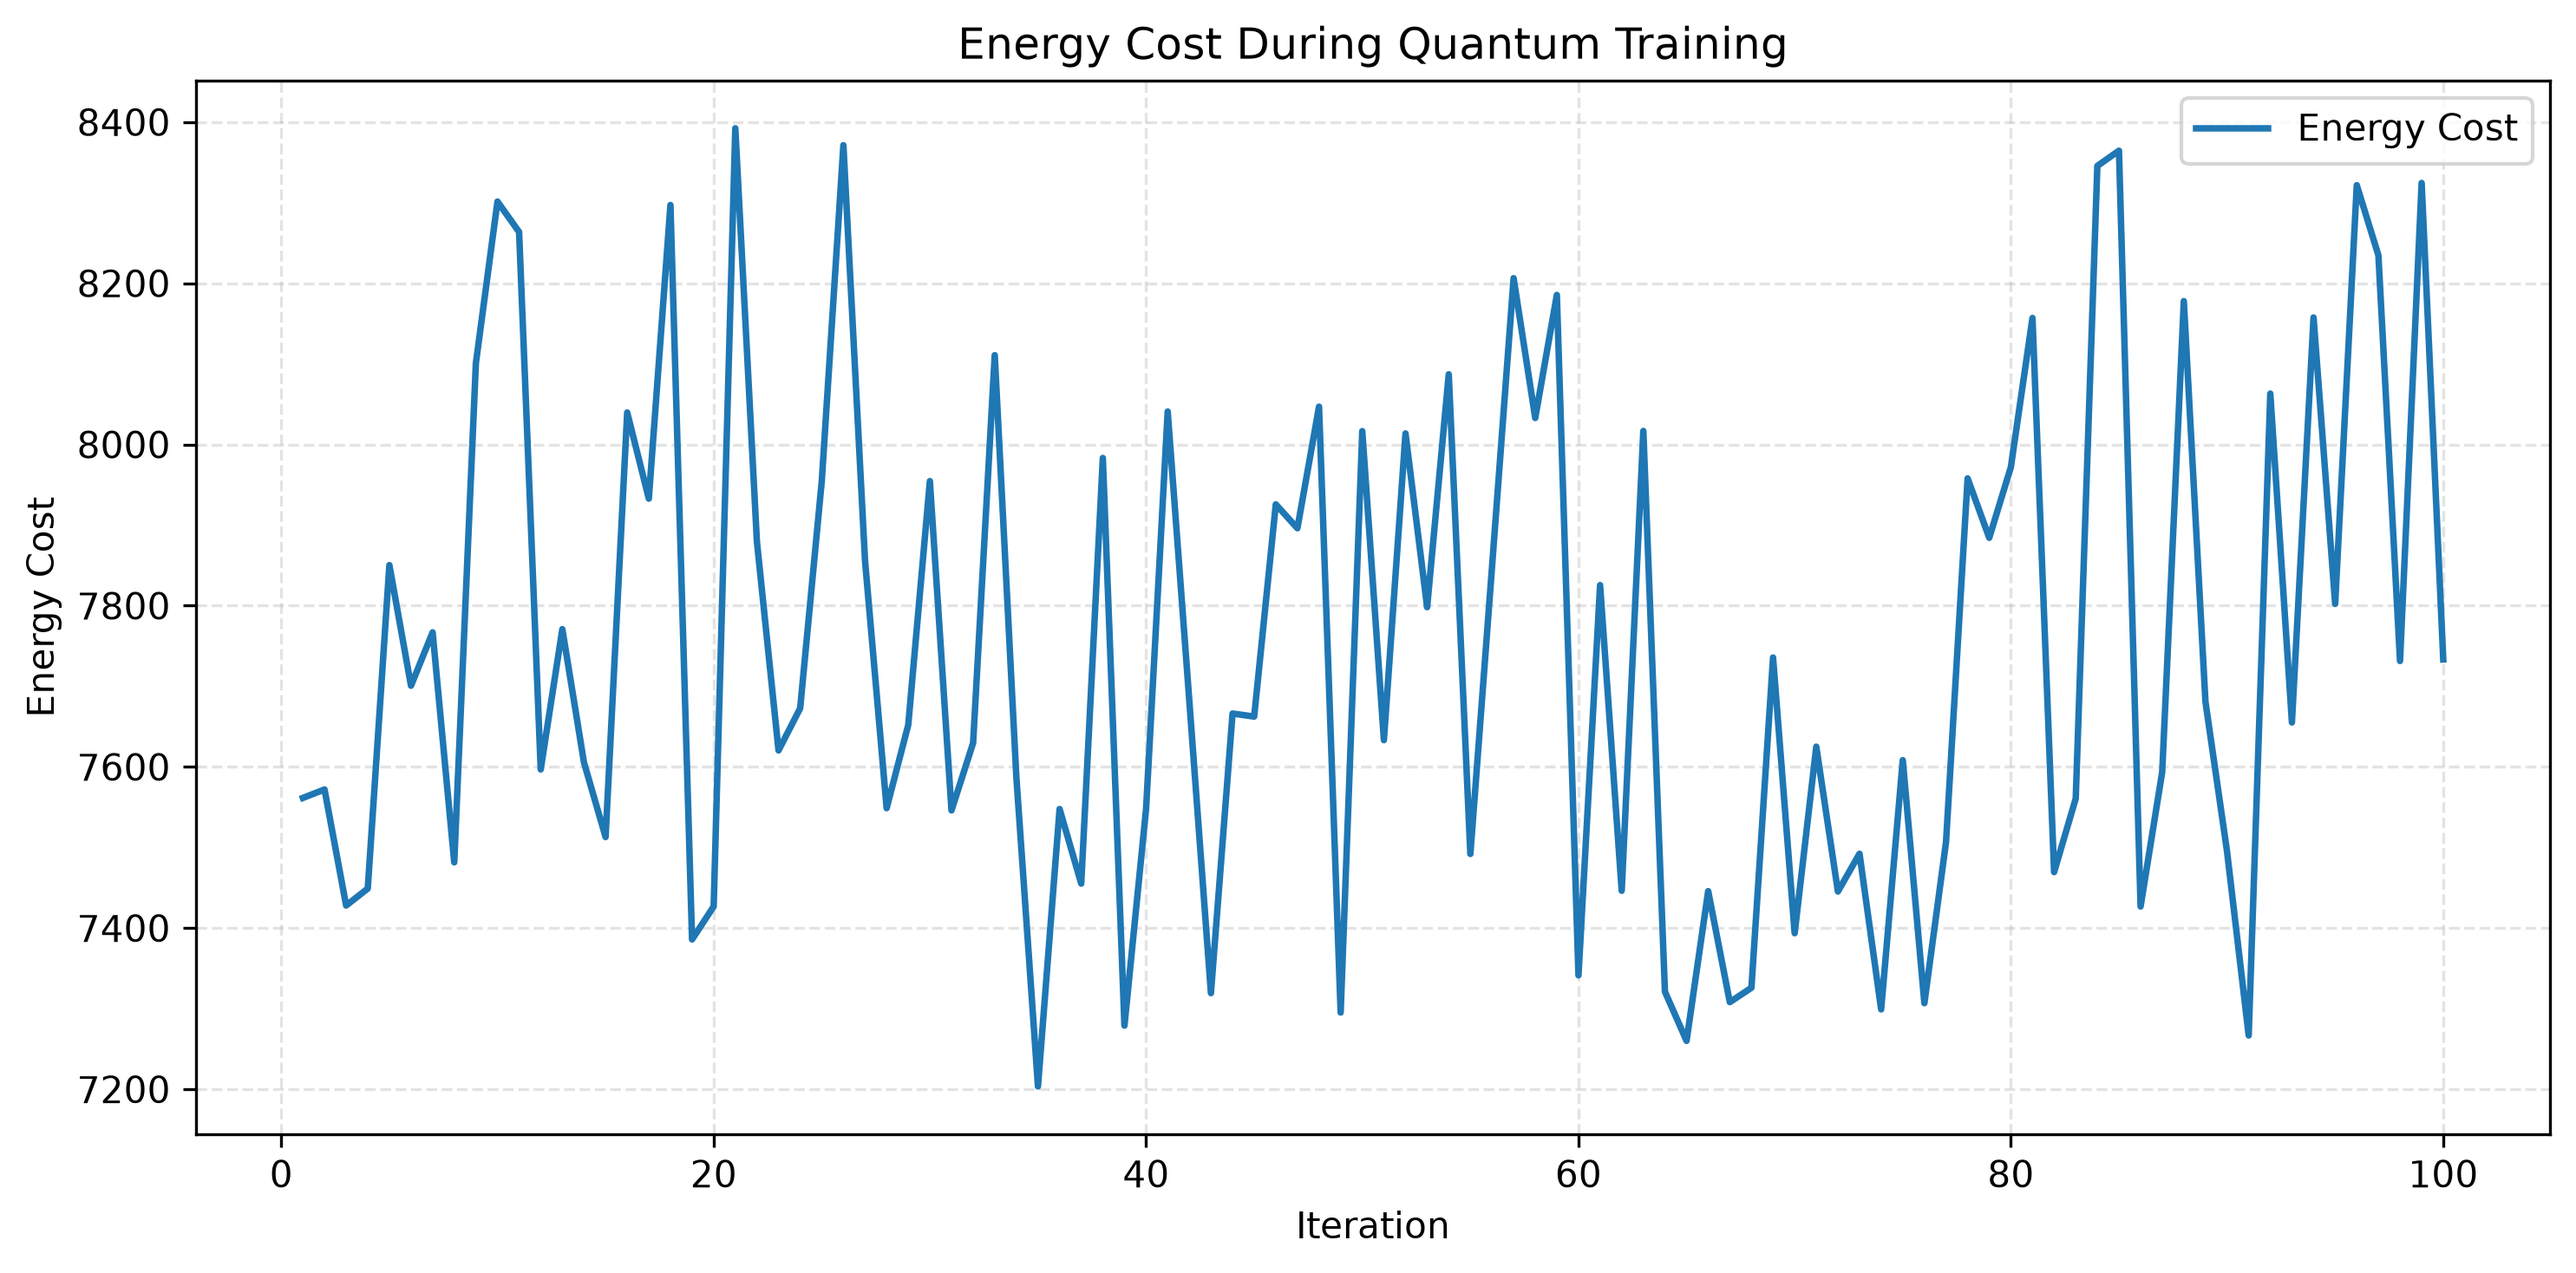
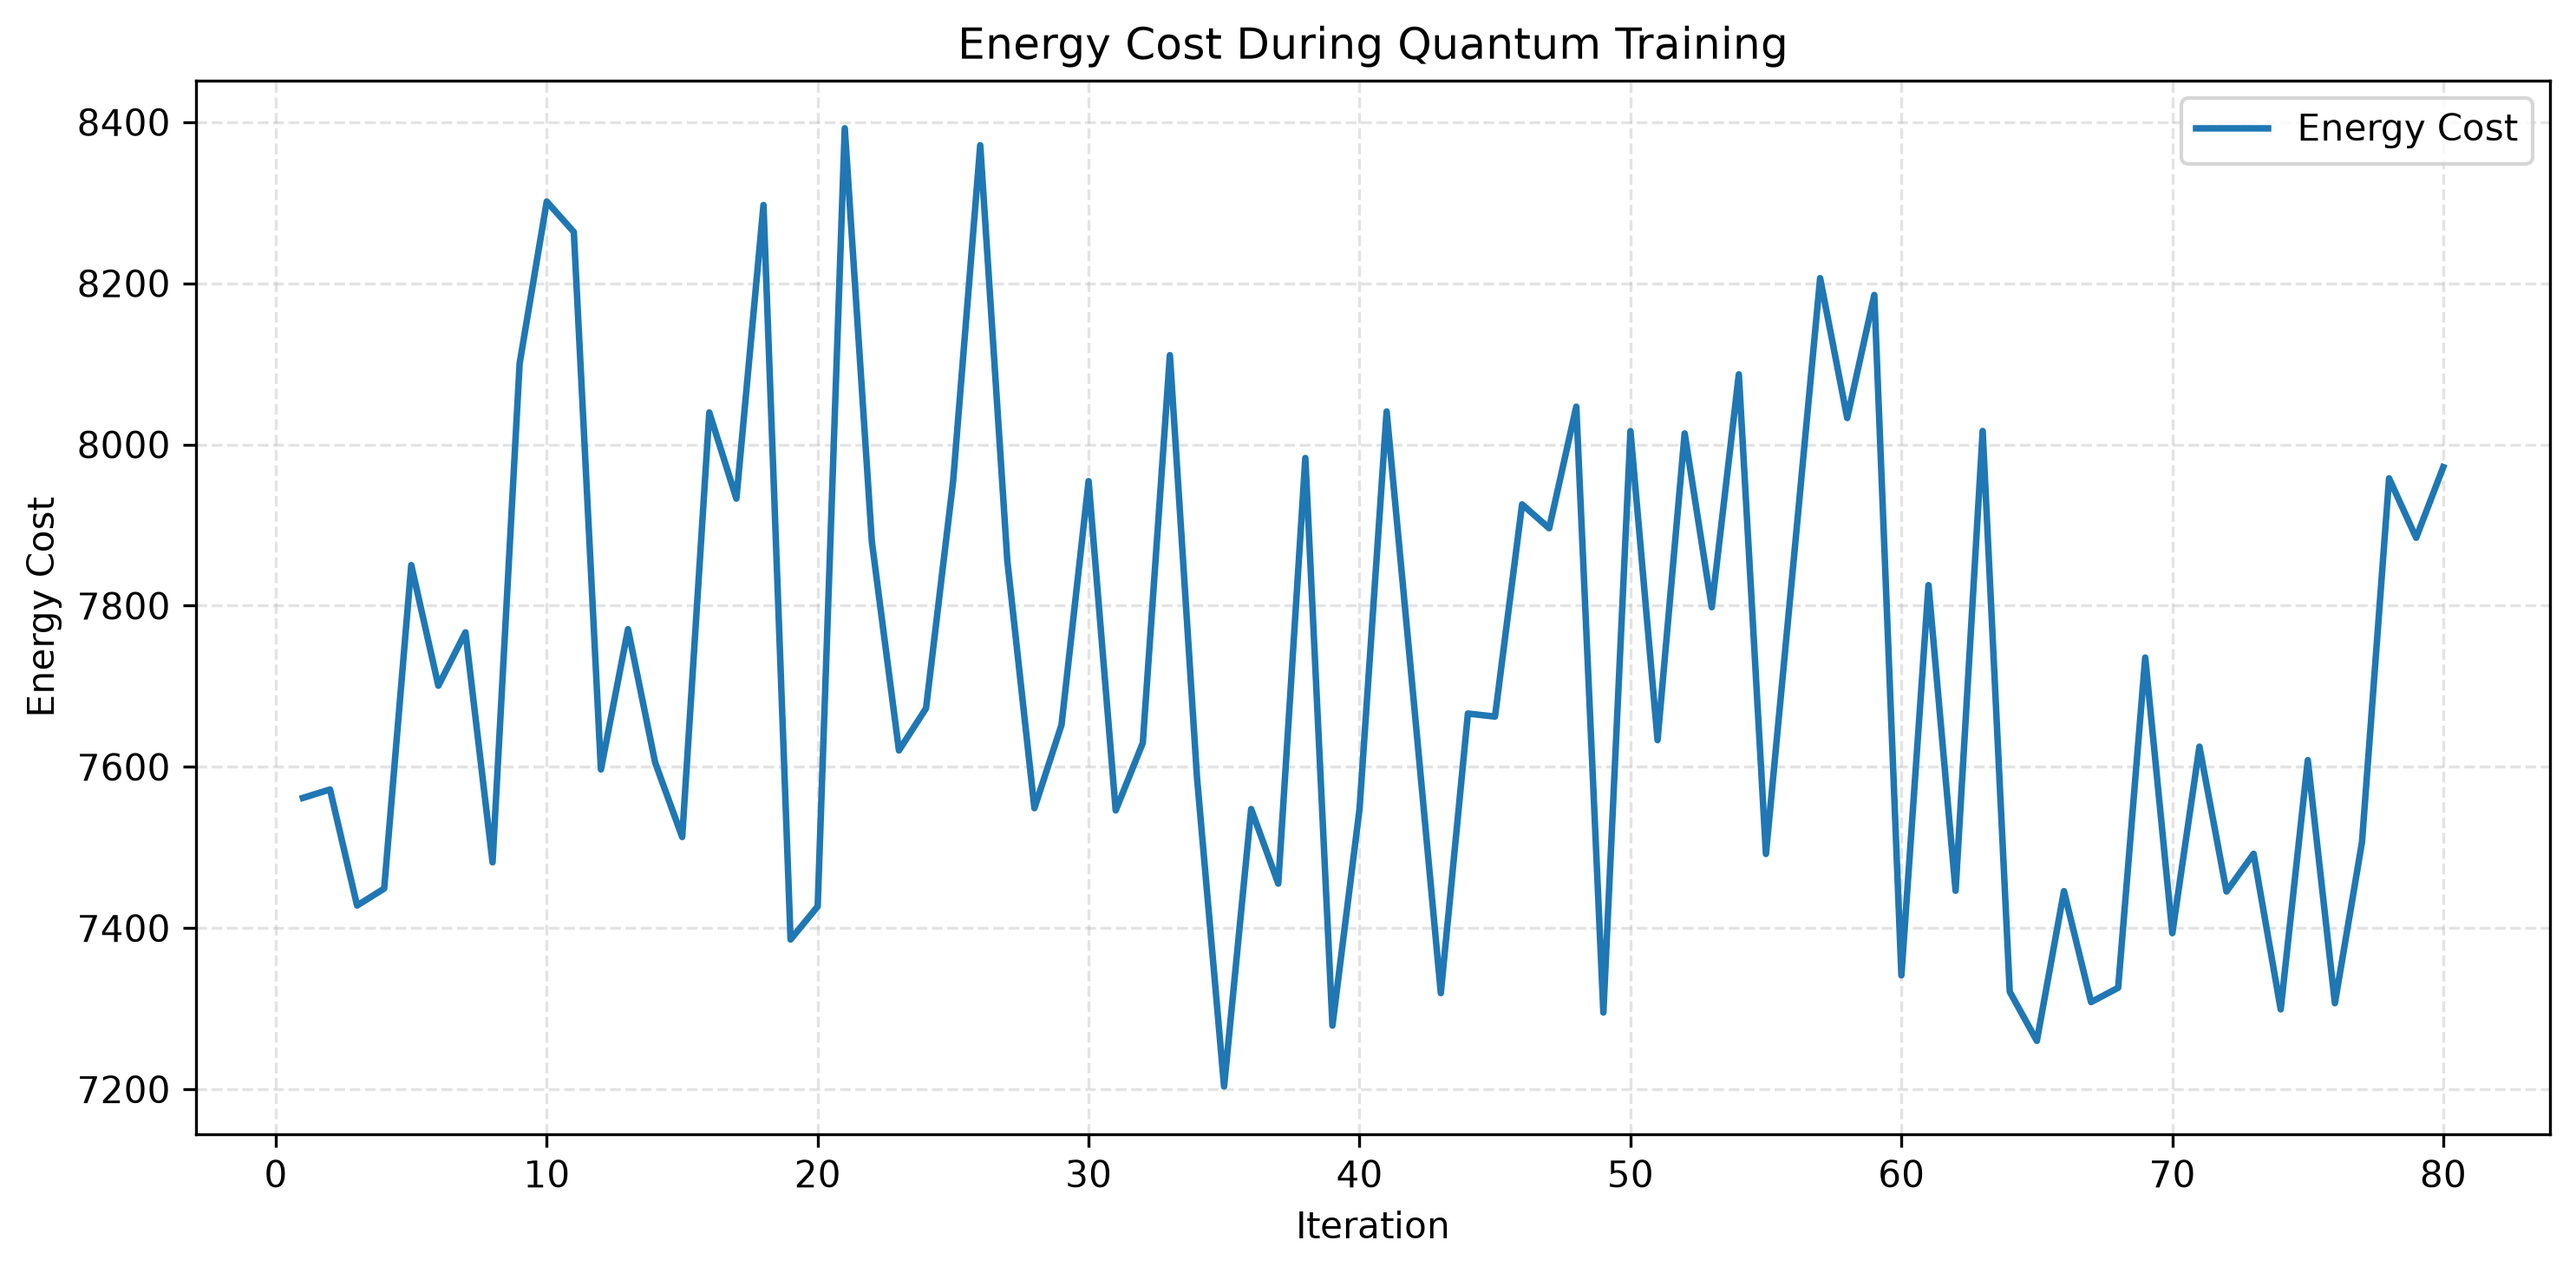
Add reproducible experiment configuration

Changed region(s): [[0.1239, 0.1226, 0.9603, 0.8583], [0.9293, 0.889, 0.9603, 0.9503], [0.6195, 0.9196, 0.6505, 0.9503]]

diff --git a/training/train_quantum_policy.py b/training/train_quantum_policy.py
@@ -10,6 +10,17 @@ PROJECT_ROOT = Path(__file__).resolve().parents[1]
 if str(PROJECT_ROOT) not in sys.path:
     sys.path.insert(0, str(PROJECT_ROOT))
 
+from config.experiment_config import (
+    TRAINING_SEED,
+    TRAINING_ITERATIONS,
+    EPISODES_PER_ESTIMATE,
+    SPSA_LEARNING_RATE,
+    SPSA_PERTURBATION,
+    VALIDATION_SEED_OFFSET,
+    VALIDATION_EPISODES,
+    EXPERIMENT_NAME,
+)    
+
 from env.battery_env import BatteryEnv
 from agents.quantum_policy import QuantumPolicy
 
@@ -94,6 +105,16 @@ def save_checkpoint(
         "best_reward": float(best_reward),
         "rng_state": rng.bit_generator.state,
         "history": history,
+         "experiment_name": EXPERIMENT_NAME,
+         "experiment_config": {
+                 "seed": TRAINING_SEED,
+    "iterations": TRAINING_ITERATIONS,
+    "episodes_per_estimate": EPISODES_PER_ESTIMATE,
+    "learning_rate": SPSA_LEARNING_RATE,
+    "perturbation": SPSA_PERTURBATION,
+    "validation_seed_offset": VALIDATION_SEED_OFFSET,
+    "validation_episodes": VALIDATION_EPISODES,
+      },
     }
 
     temporary_path = CHECKPOINT_PATH.with_suffix(".tmp")
@@ -123,11 +144,11 @@ def load_checkpoint():
 
 
 def train_quantum_policy(
-    iterations=80,
-    episodes_per_estimate=2,
-    seed=42,
-    learning_rate=0.08,
-    perturbation=0.1,
+    iterations=TRAINING_ITERATIONS,
+    episodes_per_estimate=EPISODES_PER_ESTIMATE,
+    seed=TRAINING_SEED,
+    learning_rate=SPSA_LEARNING_RATE,
+    perturbation=SPSA_PERTURBATION,
     resume=False,
 ):
     """
@@ -154,11 +175,15 @@ def train_quantum_policy(
 
     # Fixed validation scenarios used to select the best policy.
     validation_seeds = [
-        int(value)
-        for value in np.random.default_rng(seed + 10_000).integers(
-            0, 1_000_000, size=10
-        )
-    ]
+    int(value)
+    for value in np.random.default_rng(
+        seed + VALIDATION_SEED_OFFSET
+    ).integers(
+        0,
+        1_000_000,
+        size=VALIDATION_EPISODES,
+    )
+]
 
     if resume:
         checkpoint = load_checkpoint()
@@ -305,10 +330,10 @@ if __name__ == "__main__":
         description="Train the hybrid quantum battery policy."
     )
     parser.add_argument(
-        "--iterations",
-        type=int,
-        default=80,
-        help="Total target number of SPSA iterations.",
+    "--iterations",
+    type=int,
+    default=TRAINING_ITERATIONS,
+    help="Total target number of SPSA iterations.",
     )
     parser.add_argument(
         "--resume",

diff --git a/evaluation/evaluate_quantum_policy.py b/evaluation/evaluate_quantum_policy.py
@@ -12,7 +12,11 @@ from env.battery_env import BatteryEnv
 from agents.quantum_policy import QuantumPolicy
 from agents.rule_based_agent import RuleBasedAgent
 from agents.q_learning_agent import QLearningAgent
-
+from config.experiment_config import (
+    EVALUATION_SEED,
+    EVALUATION_EPISODES,
+    EXPERIMENT_NAME,
+)
 
 def load_quantum_policy():
     # Evaluate the best policy selected during checkpointed training.
@@ -85,7 +89,7 @@ def run_episode(env, agent, seed, agent_type):
     }
 
 
-def evaluate_agents(num_episodes=30, seed=1000):
+def evaluate_agents(num_episodes=EVALUATION_EPISODES, seed=EVALUATION_SEED):
     if num_episodes < 1:
         raise ValueError("num_episodes must be positive.")
 
@@ -121,6 +125,7 @@ def evaluate_agents(num_episodes=30, seed=1000):
                 )
 
                 records.append({
+                    "experiment": EXPERIMENT_NAME,
                     "agent": agent_name,
                     "episode": episode,
                     "seed": scenario_seed,

diff --git a/config/experiment_config.py b/config/experiment_config.py
@@ -1,0 +1,19 @@
+"""Shared settings for reproducible quantum battery experiments."""
+
+# Random seeds
+TRAINING_SEED = 42
+EVALUATION_SEED = 1000
+VALIDATION_SEED_OFFSET = 10_000
+
+# Quantum policy training (SPSA)
+TRAINING_ITERATIONS = 80
+EPISODES_PER_ESTIMATE = 2
+SPSA_LEARNING_RATE = 0.08
+SPSA_PERTURBATION = 0.1
+VALIDATION_EPISODES = 10
+
+# Agent comparison
+EVALUATION_EPISODES = 30
+
+# Environment / experiment metadata
+EXPERIMENT_NAME = "hybrid_quantum_battery_rl"
